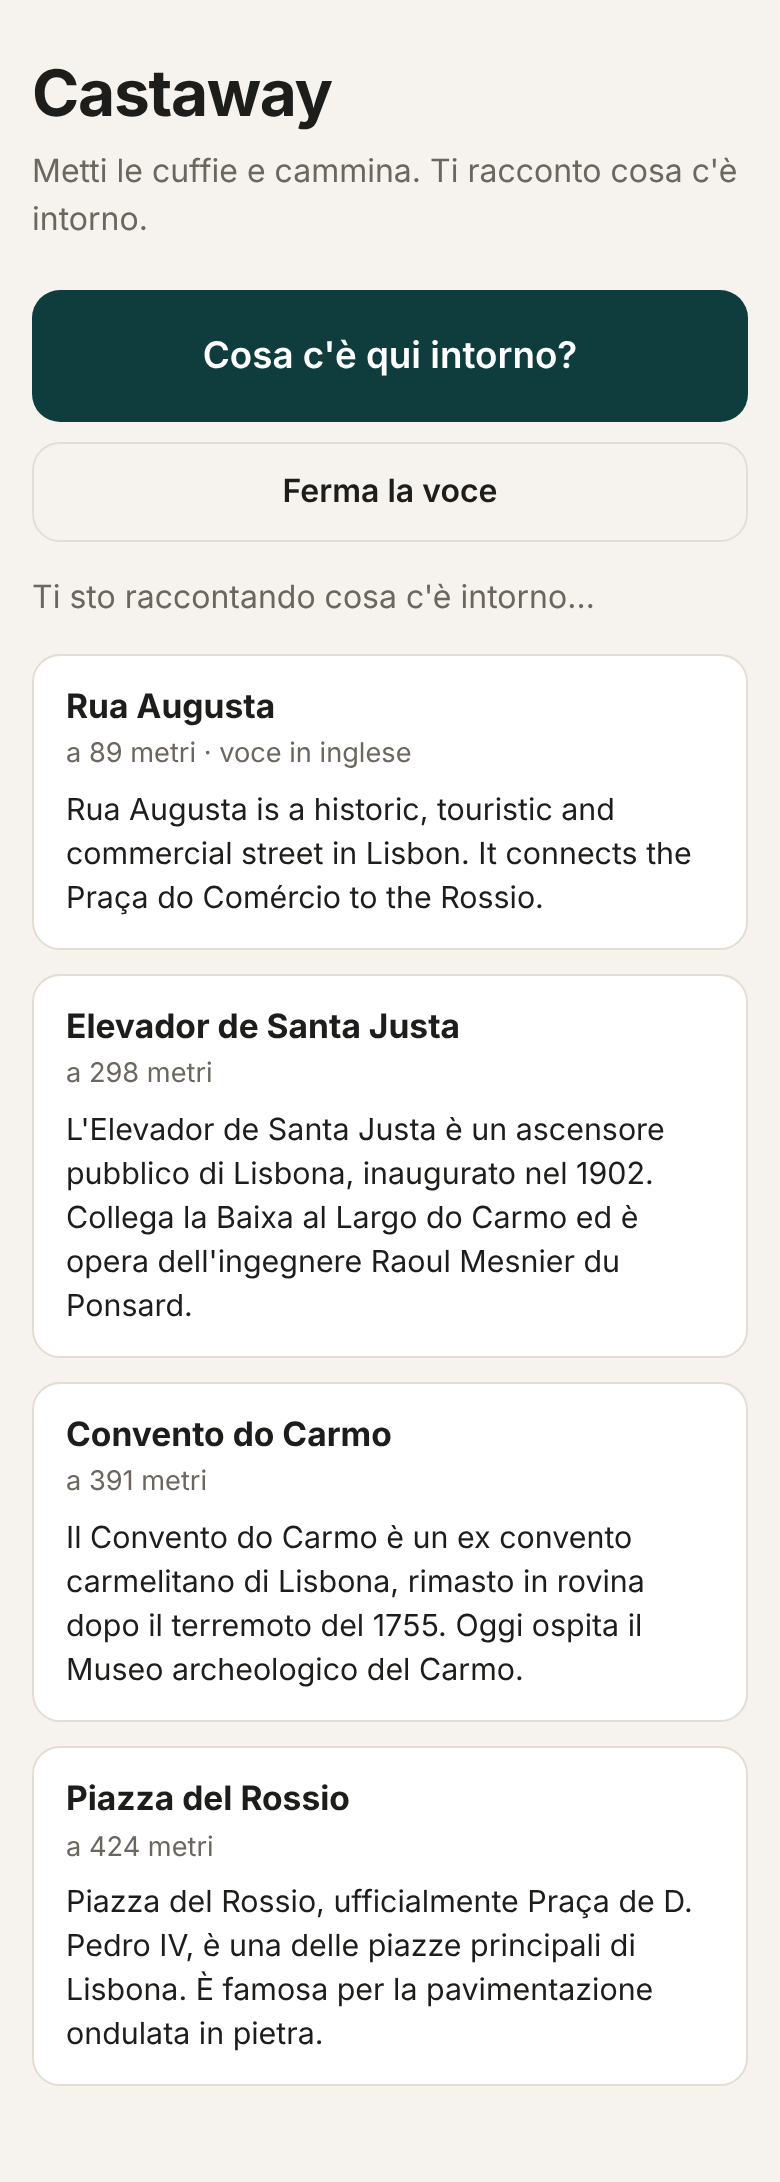
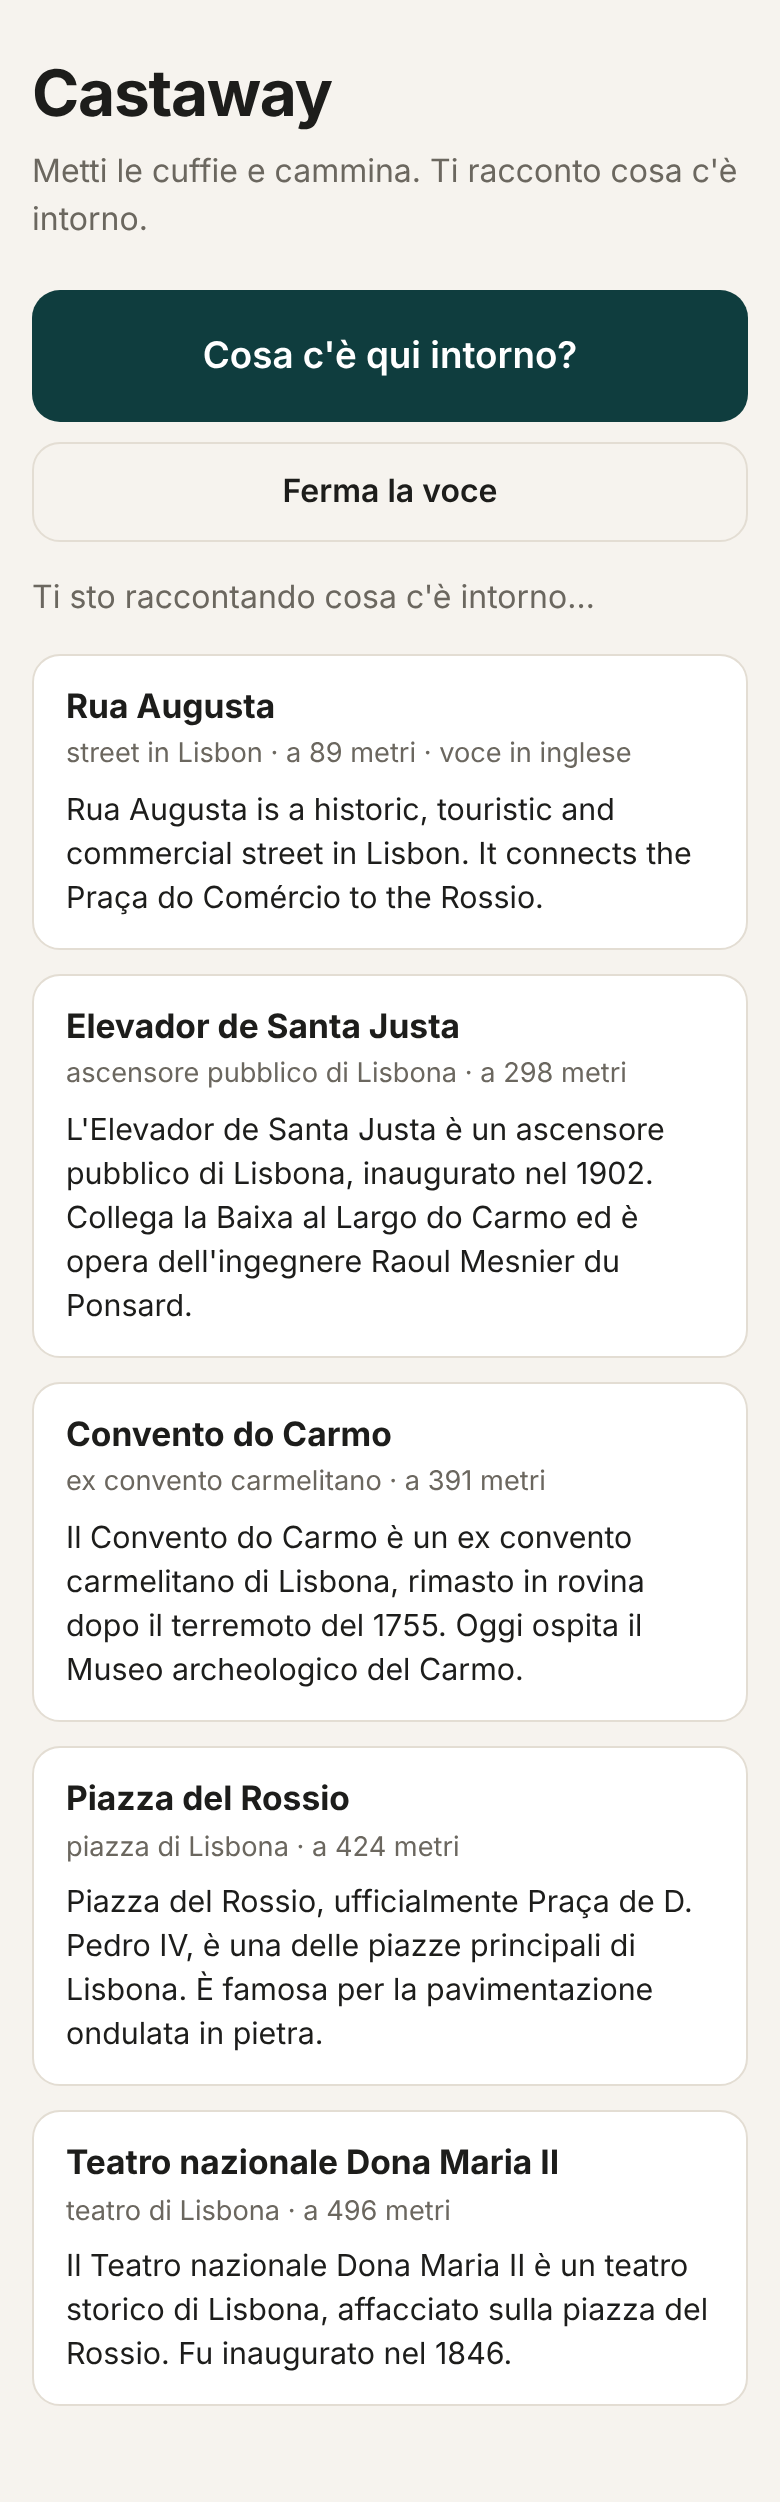
Ricetta imperdibili: filtro per tipo e dimensione, punteggio, descrizione breve
Chiede a Wikipedia solo coordinate principali e oggetti sotto 500 m, scarta
tipi poco interessanti a piedi, ordina per visite e vicinanza e annuncia la
descrizione breve. Prova di fumo estesa con verifiche automatiche.

Claude-Session: https://claude.ai/code/session_019mBY3JRc7ceBdt43MSs7CL

Changed region(s): [[0.0308, 0.0, 0.9846, 0.9661], [0.0308, 0.374, 0.0615, 0.4051]]

diff --git a/wiki.js b/wiki.js
@@ -1,9 +1,20 @@
-// Cerca su Wikipedia i luoghi vicini a una coordinata.
+// Cerca su Wikipedia i luoghi vicini a una coordinata e sceglie gli
+// "imperdibili" (vedi la ricetta in CLAUDE.md).
 // Strategia lingua: italiano prima, inglese come riserva per i luoghi
 // che non hanno una voce italiana.
 
-const RADIUS_M = 1000;   // massimo consentito dall'API: 10000
+const RADIUS_M = 1000;    // massimo consentito dall'API: 10000
+const MAX_DIM_M = 500;    // esclude città, regioni, fiumi
 const MAX_PLACES = 5;
+const PAGEVIEW_DAYS = 7;
+const WEIGHT_POPULARITY = 0.6;
+const WEIGHT_PROXIMITY = 0.4;
+
+// Tipi di coordinata poco interessanti per chi cammina.
+const EXCLUDED_TYPES = new Set([
+  'edu', 'railwaystation', 'airport',
+  'country', 'state', 'adm1st', 'adm2nd', 'adm3rd', 'city',
+]);
 
 function apiUrl(lang, params) {
   const qs = new URLSearchParams({ format: 'json', formatversion: '2', origin: '*', ...params });
@@ -20,18 +31,27 @@ function distanceM(lat1, lon1, lat2, lon2) {
   return Math.round(2 * R * Math.asin(Math.sqrt(a)));
 }
 
+function sumPageviews(pageviews) {
+  return Object.values(pageviews || {}).reduce((sum, n) => sum + (n || 0), 0);
+}
+
 async function geosearch(lang, lat, lon, extraProps = {}) {
   const url = apiUrl(lang, {
     action: 'query',
     generator: 'geosearch',
     ggscoord: `${lat}|${lon}`,
     ggsradius: String(RADIUS_M),
+    ggsmaxdim: String(MAX_DIM_M),
+    ggsprimary: 'primary',
     ggslimit: '20',
-    prop: 'coordinates|extracts' + (extraProps.prop ? `|${extraProps.prop}` : ''),
+    prop: 'coordinates|extracts|description|pageviews' + (extraProps.prop ? `|${extraProps.prop}` : ''),
+    coprop: 'type',
+    coprimary: 'primary',
     exintro: '1',
     explaintext: '1',
     exsentences: '2',
     exlimit: 'max',
+    pvipdays: String(PAGEVIEW_DAYS),
     ...extraProps.params,
   });
   const res = await fetch(url);
@@ -40,13 +60,27 @@ async function geosearch(lang, lat, lon, extraProps = {}) {
   const pages = (data.query && data.query.pages) || [];
   return pages
     .filter((p) => p.coordinates && p.coordinates.length && p.extract)
+    .filter((p) => !EXCLUDED_TYPES.has(p.coordinates[0].type))
     .map((p) => ({
       title: p.title,
+      description: p.description || '',
       summary: p.extract.trim(),
       lang,
       distance: distanceM(lat, lon, p.coordinates[0].lat, p.coordinates[0].lon),
+      views: sumPageviews(p.pageviews),
       hasItalian: Boolean(p.langlinks && p.langlinks.length),
     }));
+}
+
+// Popolarità su scala logaritmica: 100 visite contro 10.000 conta, ma senza
+// schiacciare tutto il resto sotto il luogo più famoso.
+function scorePlaces(places) {
+  const maxLogViews = Math.max(1, ...places.map((p) => Math.log10(1 + p.views)));
+  return places.map((p) => ({
+    ...p,
+    score: WEIGHT_POPULARITY * (Math.log10(1 + p.views) / maxLogViews) +
+      WEIGHT_PROXIMITY * Math.max(0, 1 - p.distance / RADIUS_M),
+  }));
 }
 
 async function findNearbyPlaces(lat, lon) {
@@ -64,9 +98,11 @@ async function findNearbyPlaces(lat, lon) {
   const en = enRes.status === 'fulfilled' ? enRes.value : [];
   // Una voce inglese entra solo se il luogo non ha già una voce italiana.
   const enOnly = en.filter((p) => !p.hasItalian);
-  return [...it, ...enOnly]
-    .sort((a, b) => a.distance - b.distance)
-    .slice(0, MAX_PLACES);
+  // Scelgo i migliori per punteggio, poi li racconto dal più vicino.
+  return scorePlaces([...it, ...enOnly])
+    .sort((a, b) => b.score - a.score)
+    .slice(0, MAX_PLACES)
+    .sort((a, b) => a.distance - b.distance);
 }
 
-window.CastawayWiki = { findNearbyPlaces, distanceM };
+window.CastawayWiki = { findNearbyPlaces, distanceM, scorePlaces };

diff --git a/tests/smoke.js b/tests/smoke.js
@@ -1,6 +1,9 @@
 // Prova di fumo: avvia l'app su localhost:8123 con Wikipedia simulata e posizione a Lisbona.
 // Uso: python3 -m http.server 8123 &  poi  node tests/smoke.js docs/screenshot-mvp.png
+const assert = require('assert');
 const { chromium } = require('playwright');
+const fx = require('./fixtures.js');
+
 (async () => {
   const browser = await chromium.launch(process.env.HTTPS_PROXY ? { proxy: { server: process.env.HTTPS_PROXY, bypass: 'localhost,127.0.0.1' } } : {});
   const ctx = await browser.newContext({
@@ -8,10 +11,11 @@ const { chromium } = require('playwright');
     geolocation: { latitude: 38.7107, longitude: -9.1365 }, permissions: ['geolocation'], locale: 'it-IT',
   });
   const page = await ctx.newPage();
-  const fx = require('./fixtures.js');
+  const requests = [];
   await page.route('https://*.wikipedia.org/**', (route) => {
-    const lang = new URL(route.request().url()).hostname.split('.')[0];
-    console.log('wiki request:', lang);
+    const url = new URL(route.request().url());
+    requests.push(url);
+    const lang = url.hostname.split('.')[0];
     route.fulfill({ status: 200, contentType: 'application/json', headers: { 'access-control-allow-origin': '*' }, body: JSON.stringify(fx[lang]) });
   });
   await page.addInitScript(() => {
@@ -19,13 +23,37 @@ const { chromium } = require('playwright');
     const orig = speechSynthesis.speak.bind(speechSynthesis);
     speechSynthesis.speak = (u) => { if (u.text) window.__spoken.push(`[${u.lang}] ${u.text}`); orig(u); };
   });
-  page.on('console', m => console.log('console:', m.text()));
-  page.on('pageerror', e => console.log('pageerror:', e.message));
+  page.on('pageerror', (e) => console.log('pageerror:', e.message));
   await page.goto('http://localhost:8123/');
   await page.click('#tell');
-  await page.waitForSelector('#places li', { timeout: 20000 }).catch(() => {});
-  console.log('STATUS:', await page.textContent('#status'));
-  console.log((await page.evaluate(() => window.__spoken)).join('\n'));
-  await page.screenshot({ path: process.argv[2], fullPage: true });
+  await page.waitForSelector('#places li', { timeout: 20000 });
+
+  const spoken = await page.evaluate(() => window.__spoken);
+  const titles = await page.$$eval('#places h2', (els) => els.map((e) => e.textContent));
+  console.log(spoken.join('\n'));
+
+  // La richiesta chiede a Wikipedia i filtri e i dati della ricetta.
+  for (const u of requests) {
+    const q = u.searchParams;
+    assert.strictEqual(q.get('ggsmaxdim'), '500');
+    assert.strictEqual(q.get('ggsprimary'), 'primary');
+    assert.match(q.get('prop'), /description/);
+    assert.match(q.get('prop'), /pageviews/);
+  }
+  // Scelta degli imperdibili: 5 luoghi, ordinati per distanza.
+  assert.deepStrictEqual(titles, [
+    'Rua Augusta', 'Elevador de Santa Justa', 'Convento do Carmo',
+    'Piazza del Rossio', 'Teatro nazionale Dona Maria II',
+  ]);
+  // Scartati: stazione (tipo), luoghi poco visitati (punteggio), voce senza coordinate.
+  for (const out of ['Stazione di Lisbona Rossio', 'Cappella minore', 'Beco do Exemplo', 'Senza coordinate']) {
+    assert(!titles.includes(out), `${out} non doveva esserci`);
+  }
+  // Descrizione breve nell'annuncio italiano, non in quello delle voci inglesi.
+  assert(spoken.includes('[it-IT] Convento do Carmo, ex convento carmelitano, a 391 metri.'));
+  assert(spoken.includes('[it-IT] Rua Augusta, a 89 metri. Te lo racconto in inglese.'));
+  console.log('OK: tutte le verifiche superate');
+
+  if (process.argv[2]) await page.screenshot({ path: process.argv[2], fullPage: true });
   await browser.close();
-})();
+})().catch((e) => { console.error(e); process.exit(1); });

diff --git a/tests/fixtures.js b/tests/fixtures.js
@@ -1,18 +1,39 @@
 // Risposte Wikipedia simulate per il centro di Lisbona (formato formatversion=2).
+// Contiene casi che la ricetta deve scartare: una stazione, un luogo vicino
+// ma poco visitato (in italiano e in inglese), una voce senza coordinate.
+const views = (n) => ({ '2026-10-22': n, '2026-10-23': null, '2026-10-24': n });
+
 module.exports = {
   it: { query: { pages: [
-    { title: 'Elevador de Santa Justa', coordinates: [{ lat: 38.71211, lon: -9.13942 }],
+    { title: 'Elevador de Santa Justa', description: 'ascensore pubblico di Lisbona',
+      coordinates: [{ lat: 38.71211, lon: -9.13942, type: 'landmark' }], pageviews: views(2500),
       extract: "L'Elevador de Santa Justa è un ascensore pubblico di Lisbona, inaugurato nel 1902. Collega la Baixa al Largo do Carmo ed è opera dell'ingegnere Raoul Mesnier du Ponsard." },
-    { title: 'Piazza del Rossio', coordinates: [{ lat: 38.71389, lon: -9.13917 }],
+    { title: 'Piazza del Rossio', description: 'piazza di Lisbona',
+      coordinates: [{ lat: 38.71389, lon: -9.13917, type: 'landmark' }], pageviews: views(4000),
       extract: "Piazza del Rossio, ufficialmente Praça de D. Pedro IV, è una delle piazze principali di Lisbona. È famosa per la pavimentazione ondulata in pietra." },
-    { title: 'Convento do Carmo', coordinates: [{ lat: 38.71222, lon: -9.14056 }],
+    { title: 'Convento do Carmo', description: 'ex convento carmelitano',
+      coordinates: [{ lat: 38.71222, lon: -9.14056 }], pageviews: views(1500),
       extract: "Il Convento do Carmo è un ex convento carmelitano di Lisbona, rimasto in rovina dopo il terremoto del 1755. Oggi ospita il Museo archeologico del Carmo." },
+    { title: 'Teatro nazionale Dona Maria II', description: 'teatro di Lisbona',
+      coordinates: [{ lat: 38.7145, lon: -9.1395, type: 'landmark' }], pageviews: views(750),
+      extract: "Il Teatro nazionale Dona Maria II è un teatro storico di Lisbona, affacciato sulla piazza del Rossio. Fu inaugurato nel 1846." },
+    { title: 'Stazione di Lisbona Rossio', description: 'stazione ferroviaria',
+      coordinates: [{ lat: 38.7143, lon: -9.1409, type: 'railwaystation' }], pageviews: views(3000),
+      extract: 'La stazione di Lisbona Rossio è una stazione ferroviaria. Va scartata per tipo.' },
+    { title: 'Cappella minore', description: 'cappella',
+      coordinates: [{ lat: 38.7110, lon: -9.1368 }], pageviews: views(2),
+      extract: 'Una cappella vicinissima ma poco visitata. Deve perdere contro i luoghi famosi.' },
     { title: 'Senza coordinate', extract: 'Va scartata.' },
   ] } },
   en: { query: { pages: [
-    { title: 'Elevador de Santa Justa', coordinates: [{ lat: 38.71211, lon: -9.13942 }],
+    { title: 'Elevador de Santa Justa', description: 'elevator in Lisbon',
+      coordinates: [{ lat: 38.71211, lon: -9.13942, type: 'landmark' }], pageviews: views(9000),
       extract: 'The Santa Justa Lift is an elevator in Lisbon.', langlinks: [{ lang: 'it', title: 'Elevador de Santa Justa' }] },
-    { title: 'Rua Augusta', coordinates: [{ lat: 38.71000, lon: -9.13700 }],
+    { title: 'Rua Augusta', description: 'street in Lisbon',
+      coordinates: [{ lat: 38.71000, lon: -9.13700 }], pageviews: views(2000),
       extract: 'Rua Augusta is a historic, touristic and commercial street in Lisbon. It connects the Praça do Comércio to the Rossio.' },
+    { title: 'Beco do Exemplo', description: 'alley in Lisbon',
+      coordinates: [{ lat: 38.7105, lon: -9.1363 }], pageviews: views(1),
+      extract: 'A tiny alley with few readers. It must lose against famous places.' },
   ] } },
 };

diff --git a/app.js b/app.js
@@ -33,7 +33,8 @@ function renderPlaces(places) {
     h.textContent = p.title;
     const meta = document.createElement('p');
     meta.className = 'meta';
-    meta.textContent = `a ${formatDistance(p.distance)}` + (p.lang === 'en' ? ' · voce in inglese' : '');
+    meta.textContent = [p.description, `a ${formatDistance(p.distance)}`, p.lang === 'en' ? 'voce in inglese' : '']
+      .filter(Boolean).join(' · ');
     const summary = document.createElement('p');
     summary.className = 'summary';
     summary.textContent = p.summary;
@@ -51,7 +52,9 @@ function buildUtterances(places) {
     : `Qui intorno ci sono ${places.length} luoghi da conoscere.`;
   out.push({ text: intro, lang: 'it-IT', index: -1 });
   places.forEach((p, i) => {
-    const header = `${p.title}, a ${formatDistance(p.distance)}.` +
+    // La descrizione breve entra nell'annuncio solo se è in italiano.
+    const desc = p.lang === 'it' && p.description ? `, ${p.description},` : ',';
+    const header = `${p.title}${desc} a ${formatDistance(p.distance)}.` +
       (p.lang === 'en' ? ' Te lo racconto in inglese.' : '');
     out.push({ text: header, lang: 'it-IT', index: i });
     out.push({ text: p.summary, lang: p.lang === 'en' ? 'en-US' : 'it-IT', index: i });
